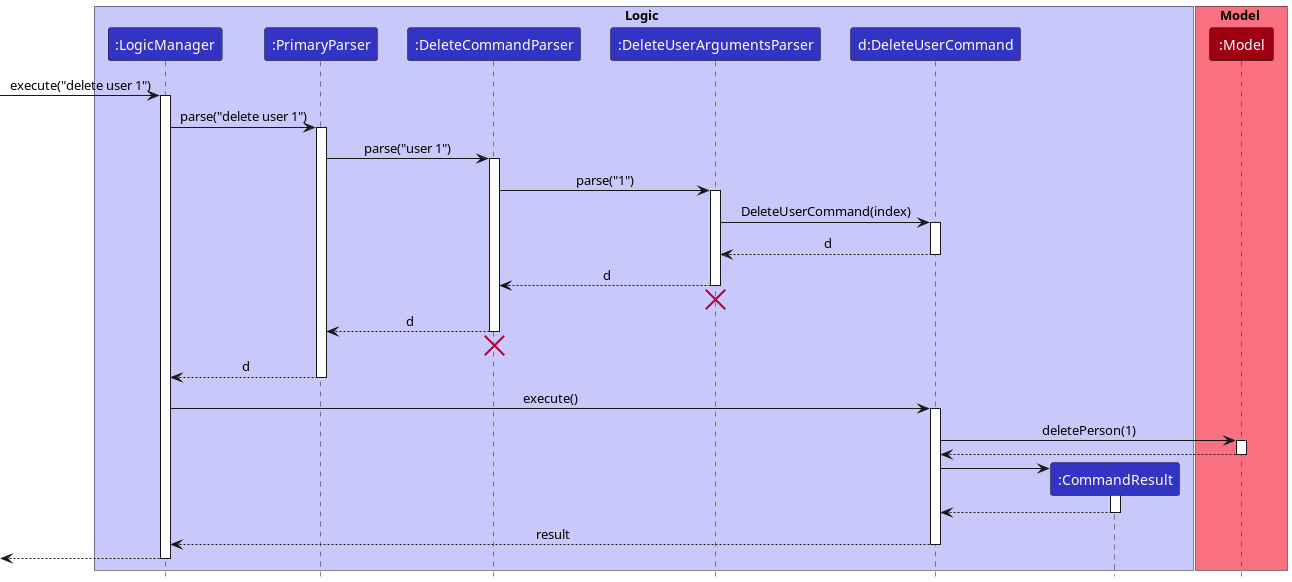
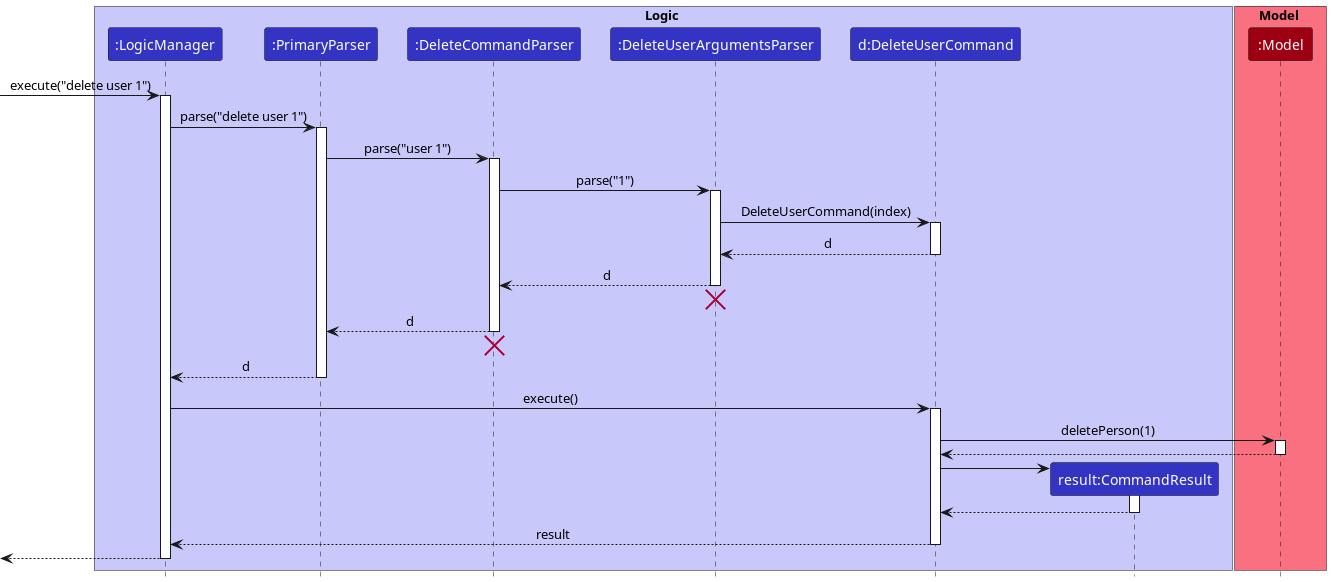
Add test cases appendix and fix CommandResult in diagrams

diff --git a/docs/DeveloperGuide.md b/docs/DeveloperGuide.md
@@ -709,10 +709,6 @@ testers are expected to do more *exploratory* testing.
    2. Re-launch the app by double-clicking the jar file.<br>
        Expected: The most recent window size and location is retained.
 
-3. _{ more test cases … }_
-
-
-
 ### Adding a book
 1. Adding a book while all books are being shown
    1. Prequisites: List all books using the `list books` or `list all` command.
@@ -889,9 +885,9 @@ testers are expected to do more *exploratory* testing.
 
 1. Dealing with missing/corrupted data files
 
-   1. _{explain how to simulate a missing/corrupted file, and the expected behavior}_
-
-1. _{ more test cases … }_
+   1. Prerequisites: have the data file `bookface.json` (if the app has not been launched at least once, this file may be missing)
+   2. Test case: change one of the JSON key fields to be incorrect, such as by replacing `name` with `nme`.<br>
+      Upon launching the application, the application will log an error message and will load without any data at all.
 
 ## **Appendix: Effort**
 
